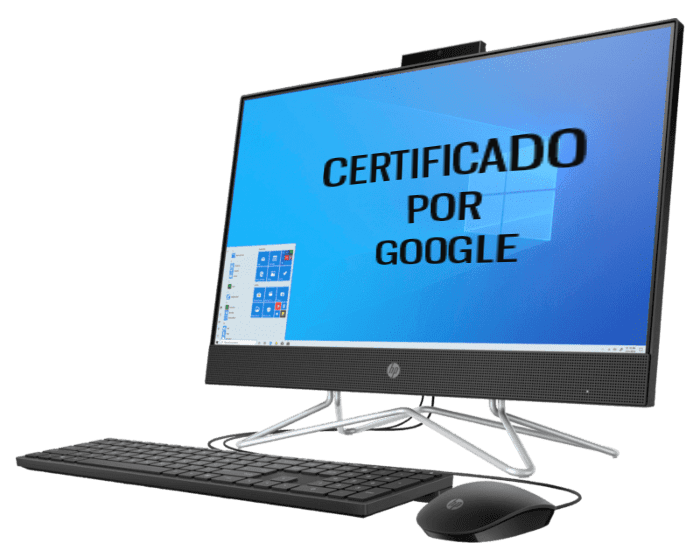
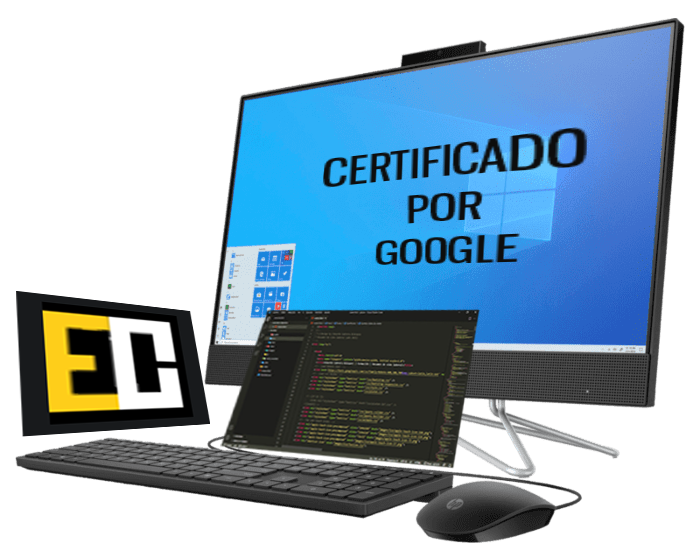
boton llamada y whatsup

Changed region(s): [[0.3, 0.5464, 0.69, 0.85], [0.0, 0.5161, 0.3, 0.7893]]

diff --git a/index.html b/index.html
@@ -46,7 +46,8 @@
                         <img src="images/logo.png" width="120" height="40" alt="Logo" />
                         <!-- This is website logo -->
                     </a>
-                    
+
+                   
                     
                     <!-- Navigation button, visible on small resolution -->
                     <button type="button" class="btn btn-navbar" data-toggle="collapse" data-target=".nav-collapse">
@@ -54,6 +55,7 @@
                     </button>
                     <!-- Main navigation -->
                     <div class="nav-collapse collapse pull-right">
+                       
                         <ul class="nav" id="top-navigation">
                             <li class="active"><a href="#home">Inicio</a></li>
                             <li><a href="#service">Funciones</a></li>
@@ -62,6 +64,7 @@
                             <li><a href="#clients">Videos</a></li>
                             <li><a href="#Audios">Audios</a></li>
                             <li><a href="#contact">Contacto</a></li>
+                           
                         </ul>
                     </div>
                     <!-- End main navigation -->
@@ -88,8 +91,11 @@
                         <h4 style="color:rgb(245, 245, 248)">Eduardo Cabrera Blázquez</h4>
                         <p><span style="color: #FECE1A"> Estoy entrenado para controlar procesos, entenderlos y mejorarlos en la medida de lo posible. Me baso en tres pilares: Estructura, Método y Completitud.</span></p>
                         
-                        <a href="/docs/Eduardo Cabrera Blázquez-cv-2021.pdf" target="_blank"" class="da-link button" >Cv en PDF</a>
-                        
+                       
+                        <a href="tel:+34696448060" >
+                            <img src="images/llamada.png" class="da-link button" width="120" height="10" alt="Logo" />
+                            <!-- This is website logo -->
+                        </a>
                       
                        
                         <div class="da-img" >
@@ -102,7 +108,9 @@
                         <h2 class="fittext2" style="color: #FECE1A">No soy tan joven para saberlo todo</h2>
                         <h4 style="color:rgb(245, 245, 248)">Oscar Wilde</h4>
                         <p><span style="color:rgb(245, 245, 248)">Ni tan viejo para aprender.</span> <span style="color: #FECE1A"> En formación continua, pero con objetivos claros basados en experiencias. A día de hoy, ya he liderado proyectos, personas y familia; sin embargo, me sigo preparando para encargarme de nuevas tareas y procesos de forma confiable.</span></p>
-                        <a href="#about" class="da-link button">Sobre mí</a>
+                        <a href="https://wa.me/34696448060/?text=Estoy%20interesado" target="_blank" class="da-link button" width="120" height="10" alt="Logo">
+                            <img src="images/logow.png" width="100" height="100">
+                         </a>
                         <div class="da-img">
                             <img src="images/Slider02.png" width="320" alt="image02">
                         </div>
@@ -114,7 +122,7 @@
                         <h4 style="color:rgb(245, 245, 248)">Mi proceso disruptivo</h4>
                         <p><span style="color: #FECE1A">Despúes de mis anteriores experiencias en administración, Transporte, Construcción y Logística,</span> 
                         <span style="color:rgb(245, 245, 248)"> decidí abrir "una puerta lógica" en el campo de soporte IT y como desarrollador de aplicaciones para dar soluciones a medida.</span></p>
-                        <a href="#portfolio" class="da-link button">Formación</a>
+                        <a href="/docs/Eduardo Cabrera Blázquez-cv-2021.pdf" target="_blank"" class="da-link button" >Cv en PDF</a>
                         <div class="da-img">
                             <img src="images/Slider03.png" width="320" alt="image03">
                         </div>
